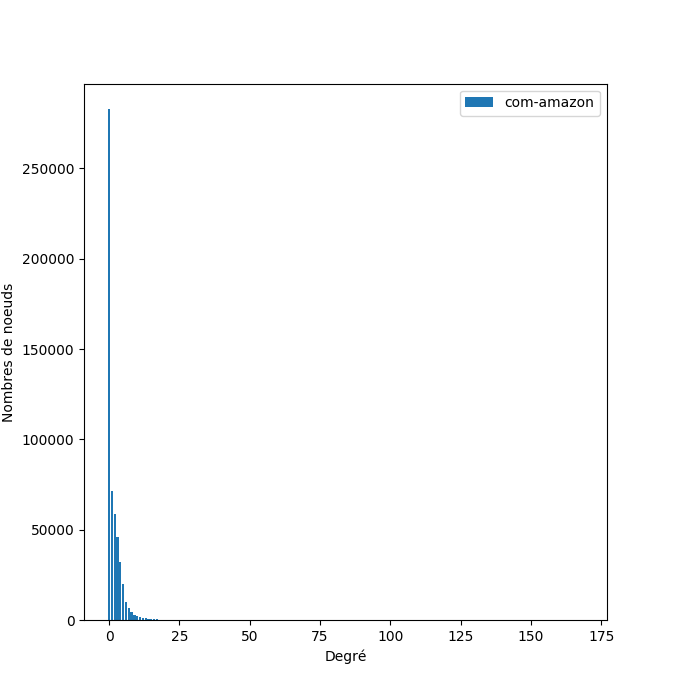
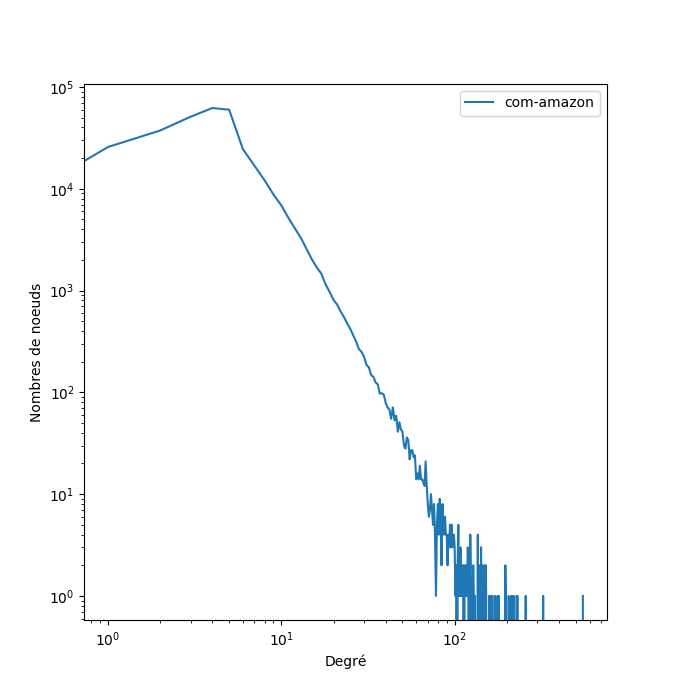
Triangle dens subgraph and log scale for TME3

diff --git a/TME6/exo5.cpp b/TME6/exo5.cpp
@@ -1,0 +1,194 @@
+#include <vector>
+#include <list>
+#include <algorithm>
+#include <set>
+#include "structs.h"
+#include "assert.h"
+
+std::map<unsigned int, unsigned int> *reverseMap(std::map<unsigned int, unsigned int> *map) {
+  std::map<unsigned int, unsigned int>  *revMap = new std::map<unsigned int, unsigned int>();
+  for(std::pair<unsigned int, unsigned int> p: *map) {
+    (*revMap)[p.second] = p.first;
+  }
+  return revMap;
+}
+
+void sortDescendingDegrees(adjArray *arr) {
+  int *degs = (int *)malloc(arr->n*sizeof(int));
+  int i;
+  for(i = 0; i < arr->n; i++) degs[i] = arr->cd[i+1]-arr->cd[i];
+
+  int maxD = 0;
+  for(i = 0; i < arr->n; i++) if(degs[i] > maxD) maxD = degs[i];
+  std::list<unsigned int> **buckets = (std::list<unsigned int>**) malloc(maxD*sizeof(std::list<unsigned int>));
+  for(i = 0; i < maxD; i++) buckets[i] = new std::list<unsigned int>();
+  for(i = 0; i < arr->n; i++) {
+    buckets[degs[i]-1]->push_front(i);
+  }
+
+  unsigned int *correspondance = (unsigned int*) malloc(arr->n*sizeof(unsigned int)); // non trie -> trie
+  unsigned int *sortedNodes = (unsigned int*) malloc(arr->n*sizeof(unsigned int)); // trie -> non trie
+  int j = 0;
+  for(i = maxD - 1; i >= 0; i--) {
+    for(unsigned int n: *(buckets[i])) {
+      correspondance[n] = j;
+      sortedNodes[j] = n;
+      j++;
+    }
+  }
+  for(i = 0; i < maxD; i++) delete(buckets[i]);
+  free(buckets);
+
+  std::list<unsigned int> **voisins = (std::list<unsigned int>**) malloc(arr->n*sizeof(std::list<unsigned int>*));
+  for(i = 0; i < arr->n; i++) {
+    unsigned int coi = sortedNodes[i];
+    voisins[i] = new std::list<unsigned int>();
+    for(j = arr->cd[coi]; j < arr->cd[coi+1]; j++) {
+      if(degs[arr->adj[j]] > degs[coi] ||
+         (degs[arr->adj[j]] == degs[coi] && arr->adj[j] > coi)) {
+        voisins[i]->push_front(correspondance[arr->adj[j]]);
+      }
+    }
+  }
+
+  arr->cd[0] = 0;
+  for(i = 1; i <= arr->n; i++) arr->cd[i] = arr->cd[i-1] + voisins[i-1]->size();
+
+  free(arr->adj);
+  arr->adj = (unsigned int *)malloc(arr->cd[arr->n]*sizeof(unsigned int));
+  j = 0;
+  for(i = 0; i < arr->n; i++) {
+    for(unsigned int no: *(voisins[i])) {
+      arr->adj[j] = no;
+      j++;
+    }
+  }
+
+  free(degs);
+  free(sortedNodes); free(correspondance);
+  for(i = 0; i < arr->n; i++) delete voisins[i];
+  free(voisins);
+}
+
+double *computeTriangleDensity(adjArray *arr, int t) {
+  double *r = (double *) malloc(arr->n*sizeof(double));
+  for(int i = 0; i < arr->n; i++) r[i] = 0;
+
+  for(int l = 0; l < t; l++) {
+    printf("Iteration %d\n", l);
+    for(int i = 0; i < arr->n; i++) {
+      std::set<unsigned int> unei; // Tous les voisins de u
+      for(int j = arr->cd[i]; j < arr->cd[i+1]; j++) unei.insert(arr->adj[j]);
+      for(int j = arr->cd[i]; j < arr->cd[i+1]; j++) {
+        unsigned int nj = arr->adj[j];
+        for(int k = arr->cd[nj]; k < arr->cd[nj+1]; k++) {
+          unsigned int nk = arr->adj[k];
+          if(unei.find(nk) != unei.end()) {
+            if(r[i] <= r[nj] && r[i] <= r[nk]) r[i]++;
+            else if(r[nj] <= r[i] && r[nj] <= r[nk]) r[nj]++;
+            else r[nk]++;
+          }
+        }
+      }
+    }
+  }
+
+  return r;
+}
+
+std::set<unsigned int> *densestPrefix(adjArray *arr, std::vector<unsigned int> ordering) {
+  unsigned int* revOrdering = (unsigned int *)malloc(arr->n*sizeof(unsigned int));
+  for(int i = 0; i < arr->n; i++) revOrdering[i] = -1;
+  for(int i = 0; i < arr->n; i++) {
+    assert(revOrdering[ordering[i]] == -1);
+    revOrdering[ordering[i]] = i;
+  }
+
+  double bestDens = 0;
+  int bestN = 0; int bestM = 0;
+  std::set<unsigned int> currentSet;
+  int currentM = 0;
+
+  for(int i = 0; i < arr->n; i++) {
+    unsigned int node = ordering[i];
+    currentSet.insert(node);
+
+    std::set<unsigned int> unei; // Tous les voisins de u qu'on observe
+    for(int j = arr->cd[node]; j < arr->cd[node+1]; j++) {
+      if(revOrdering[arr->adj[j]] >= i) continue;
+      unei.insert(arr->adj[j]);
+    }
+    for(int j = arr->cd[node]; j < arr->cd[node+1]; j++) {
+      unsigned int nj = arr->adj[j];
+      if(revOrdering[nj] >= i) continue;
+      for(int k = arr->cd[nj]; k < arr->cd[nj+1]; k++) {
+        unsigned int nk = arr->adj[k];
+        if(revOrdering[nk] >= i) continue;
+        if(unei.find(nk) != unei.end()) {
+          currentM++;
+        }
+      }
+    }
+    double currentDens = (double)currentM/(double)(i+1);
+    if(currentDens >= bestDens) {
+      bestDens = currentDens;
+      bestN = i+1; bestM = currentM;
+    }
+  }
+
+  std::set<unsigned int> *densest = new std::set<unsigned int>();
+  for(int i = 0; i < bestN; i++) {
+    (*densest).insert(ordering[i]);
+  }
+
+  // Calculate number of edges
+  int m = 0;
+  for(unsigned int node: *densest) {
+    for(int j = arr->cd[node]; j < arr->cd[node+1]; j++) {
+      int nj = arr->adj[j];
+      if(densest->find(nj) != densest->end()) m++;
+    }
+  }
+
+  printf("Densest prefix avg triangle density: %f\n", bestDens);
+  printf("Densest prefix avg edge density: %f\n", (double)m/(double)((double)(bestN*(bestN-1))/(double)2));
+  printf("Densest prefix size: %d\n", bestN);
+
+  free(revOrdering);
+  return densest;
+}
+
+int main(int argc, char **argv) {
+  if(argc != 2) {
+    printf("usage : ./exo3.exe <input_file>\n");
+    return 1;
+  }
+  char *inName = argv[1];
+
+  unsigned int nbNodes = 0; unsigned int nbEdges = 0;
+  std::map<unsigned int, unsigned int> *map = size(inName, &nbNodes, &nbEdges);
+
+  adjArray *arr = loadAsAdjArray(inName, nbNodes, nbEdges, map);
+  printf("Loaded graph\n");
+
+  sortDescendingDegrees(arr);
+
+  double *dens = computeTriangleDensity(arr, 100);
+  printf("Calculated node density\n");
+
+  std::vector<unsigned int> orderedNodes;
+  for(int i = 0; i < arr->n; i++) orderedNodes.push_back(i);
+
+  std::sort(orderedNodes.begin(), orderedNodes.end(),
+            [dens] (unsigned int i1, unsigned int i2) -> int {
+              return dens[i1] > dens[i2];
+            });
+
+  printf("Highest density score: %f\n", dens[orderedNodes[0]]);
+
+  densestPrefix(arr, orderedNodes);
+
+  freeAdjArray(arr);
+  delete map;
+  return 0;
+}

diff --git a/rapport/rapport.tex b/rapport/rapport.tex
@@ -345,14 +345,15 @@ On va maintenant calculer le densest prefix en fonction des triangles plutot que
 \begin{center}
   \begin{tabular}{|l|l|l|l|l|}
     \hline
-    G & avg degree density & avg edge density & size\\
+    G & avg triangle density & avg edge density & size\\
     \hline
-    email-EU-core & & & \\
-    Amazon & & & \\
-    LiveJournal & & & \\
-    Orkut & & & \\
+    email-EU-core & 167 & 0.27 & 203\\
+    Amazon & 4.5 & 0.07 & 126\\
+    LiveJournal & 13263 & 0.4 & 957\\
+    Orkut & 623745 & 0.07 & 5381 \\
     \hline
   \end{tabular}
 \end{center}
+On remarque qu'effectivement, les densest subgraphs obtenus sont plus denses et plus petit que ceux obtenus par l'algorithme de l'exercice 3.
 
 \end{document}

diff --git a/TME3/plot.py b/TME3/plot.py
@@ -14,7 +14,9 @@ for filename in args.files:
             tab = line[:-1].split(" ")
             x+=[int(tab[0])]; y+=[float(tab[1])]
 
-plt.bar(x, y, label=filename.split("/")[1].split(".")[0])
+plt.yscale("log")
+plt.xscale("log")
+plt.plot(x, y, label=filename.split("/")[1].split(".")[0])
 plt.xlabel("Degré")
 plt.ylabel("Nombres de noeuds")
 plt.legend()
